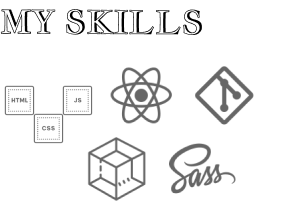
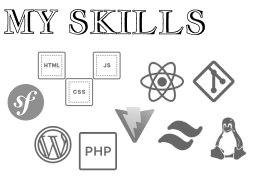
changes to a portfolio website

Changed region(s): [[0.0, 0.2762, 0.8571, 0.6906], [0.1143, 0.5801, 0.8857, 0.9669], [0.0, 0.0276, 0.7429, 0.1934]]

diff --git a/src/components/Links.jsx b/src/components/Links.jsx
@@ -15,6 +15,21 @@ function Links() {
           <img src="./public/line1.png" alt="svg-effect" />
         </div>
       </div>
+      <div className="link  lg:z-0 mr-5 text-center relative ">
+        <a
+          disable
+          className="font-regular text-[0.8rem] lg:text-[1.25rem] relative cursor-not-allowed pointer-events-none  "
+          href="coming soon..."
+        >
+          Blog
+        </a>
+        <div className="maintenanace">
+          <img className="absolute w-6 lg:w-7 top-[-0.8rem] lg:top-[-1.4rem] right-[-1rem] rotate-12 " src="./public/under-maintanance.png" alt="svg-effect" />
+        </div>
+        <div className="line ">
+          <img src="./public/line1.png" alt="svg-effect" />
+        </div>
+      </div>
       <div className="link  lg:z-0 mr-5 text-center relative cursor-pointer ">
         <a
           className="font-regular cursor-pointer text-[0.8rem] lg:text-[1.25rem]"
@@ -28,7 +43,7 @@ function Links() {
         </div>
       </div>
       <div className="btn btn-contact z-1 text-[1rem] 2xl:text-[1.5rem] font-special pt-2 pb-2 pr-2 pl-2 bg-[#D9D9D9] text-center rounded-md shadow cursor-pointer tracking-wide ">
-        <a href="mailto:putaj.jakub@gmail.com">Contact Me.</a>
+        <a href="mailto:jakub@jputaj.com.pl">Contact Me.</a>
       </div>
     </section>
   );

diff --git a/src/pages/Portfolio.jsx b/src/pages/Portfolio.jsx
@@ -9,7 +9,7 @@ export default function Portfolio() {
   return (
     <main className={`main mt-20 ${isOpen && "hidden"}`}>
       <h1 className="font-special text-[3rem] mb-10 text-center">Projects</h1>
-      <section className="Portfolio lg:flex lg:flex-row lg:m-auto lg:justify-center">
+      <section className="Portfolio lg:grid lg:grid-cols-2 lg:max-w-[1026px] lg:mx-auto ">
         <Project
           bgimg={"project1"}
           techimg={"tech-stack-1"}
@@ -37,6 +37,17 @@ export default function Portfolio() {
           }
           link={"https://ajod.pl/"}
           linkName={"ajod.pl"}
+        />
+
+
+        <Project
+          bgimg={"project4"}
+          techimg={"tech-stack-4"}
+          desc={
+            "This project is a custom CMS built with PHP, featuring a login and registration system along with full CRUD operations for managing posts"
+          }
+          link={"https://github.com/Qnosin/Procedural-CMS"}
+          linkName={"procedural-cms.com"}
         />
       </section>
     </main>

diff --git a/src/pages/About.jsx b/src/pages/About.jsx
@@ -29,7 +29,7 @@ export default function About() {
         <p className="text-center font-regular">
           👋 Hello there! I'm{" "}
           <span className="font-special text-xl ">Jakub</span>, a computer
-          science student and a front-end developer with a professional
+          science student and a php - web developer with a professional
           background as a tech support engineer. In my current role, I thrive on
           helping individuals navigate the intricate landscape of IT
           infrastructure, ensuring that their needs are not just met but truly

diff --git a/src/components/Heading.jsx b/src/components/Heading.jsx
@@ -7,7 +7,7 @@ function Heading() {
         Hello, I am Jakub.
       </p>
       <h1 className="text-[2rem] font-special max-w-[24rem] lg:max-w-[40rem] 2xl:max-w-[50rem] lg:text-[3rem] 2xl:text-[4rem]">
-        A Front-end Developer based in cracow
+        A Web Developer based in cracow
       </h1>
     </section>
   );

diff --git a/src/components/HeroImage.jsx b/src/components/HeroImage.jsx
@@ -6,7 +6,7 @@ function HeroImage() {
   return (
     <section className="hero-image flex justify-between items-center mt-10 lg:mt-0 ">
       <img
-        className="hidden lg:block h-[250px] "
+        className="hidden lg:block h-[220px] "
         src="./public/myskilss.png"
         alt=""
       />
